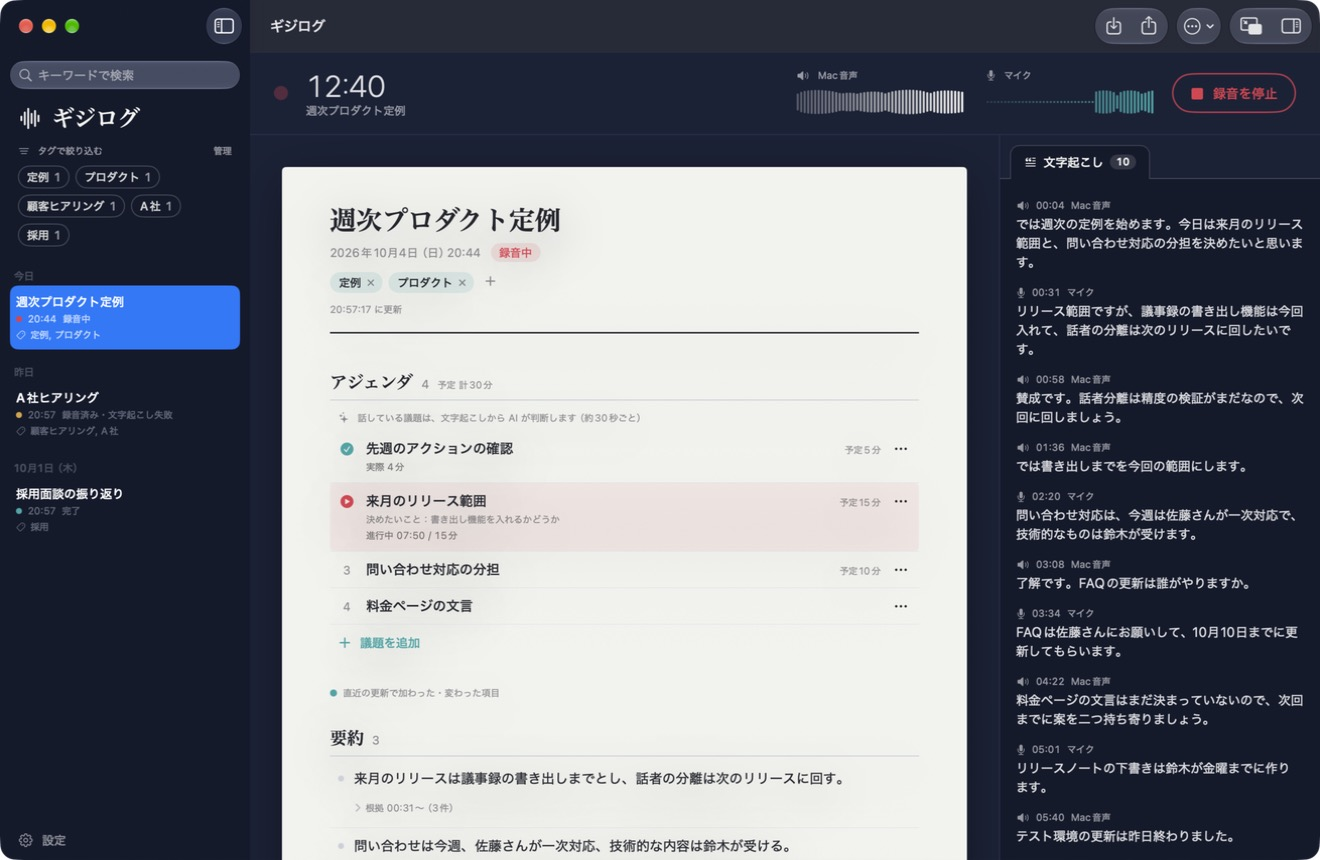
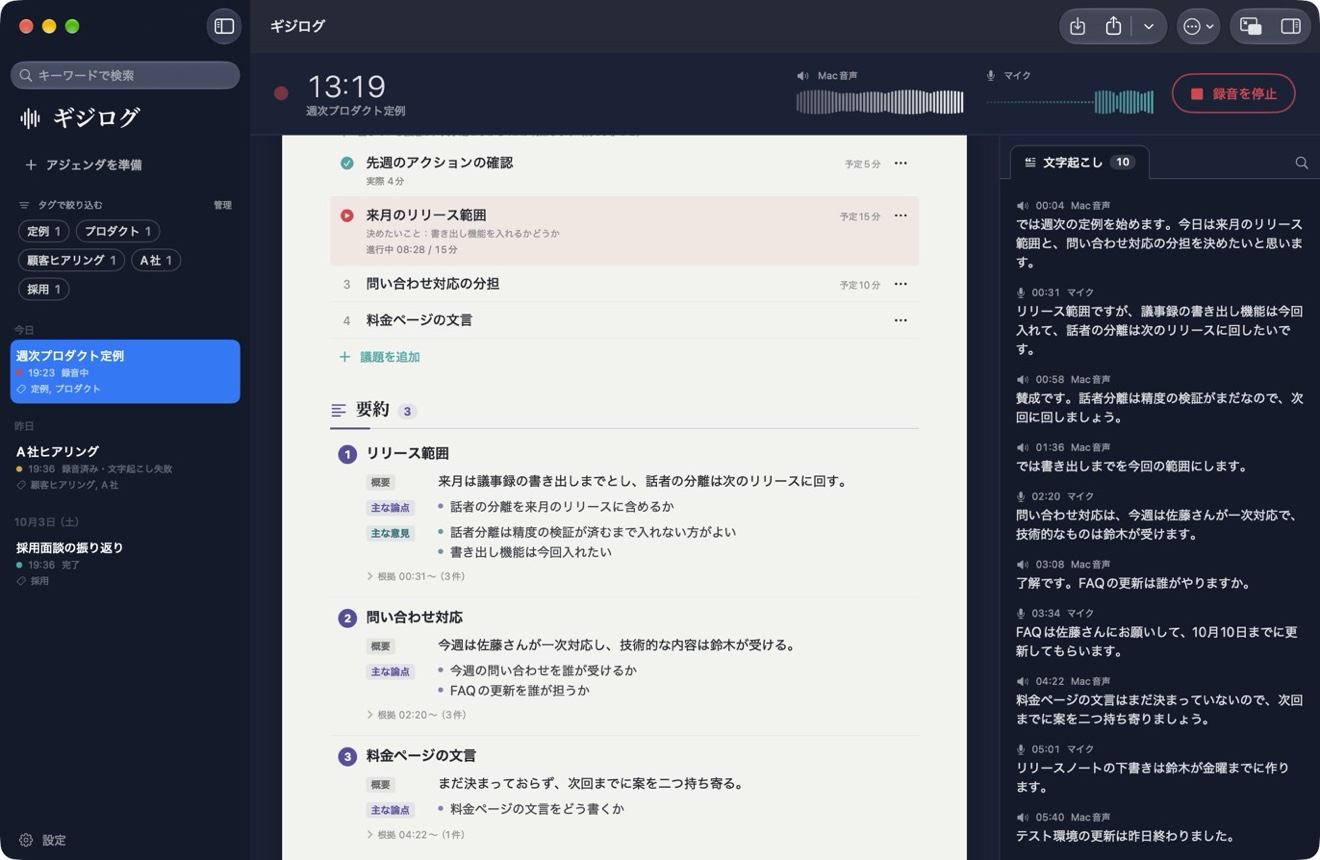
Retake the screenshots with the summary by topic
The full window now shows the agenda in progress above the summary's numbered topics with their overview, points and opinions; the compact window shows the same summary under the current topic.

diff --git a/README.en.md b/README.en.md
@@ -10,7 +10,7 @@ Keep its compact window next to the call to see what has been decided, what is s
 
 <p>
   <img src="docs/images/compact.jpg" alt="Compact window during a meeting" height="420">
-  <img src="docs/images/main.jpg" alt="Full window with the meeting list, the minutes with an agenda, and the transcript" height="420">
+  <img src="docs/images/main.jpg" alt="Full window with the meeting list, the agenda in progress and the summary by topic, and the transcript" height="420">
 </p>
 
 ## Features

diff --git a/README.md b/README.md
@@ -7,7 +7,7 @@
 
 <p>
   <img src="docs/images/compact.jpg" alt="会議中の小画面" height="420">
-  <img src="docs/images/main.jpg" alt="大きい画面（会議の一覧、アジェンダ付きの議事録、文字起こし）" height="420">
+  <img src="docs/images/main.jpg" alt="大きい画面（会議の一覧、進行中のアジェンダと話題ごとの要約、文字起こし）" height="420">
 </p>
 
 ## できること
